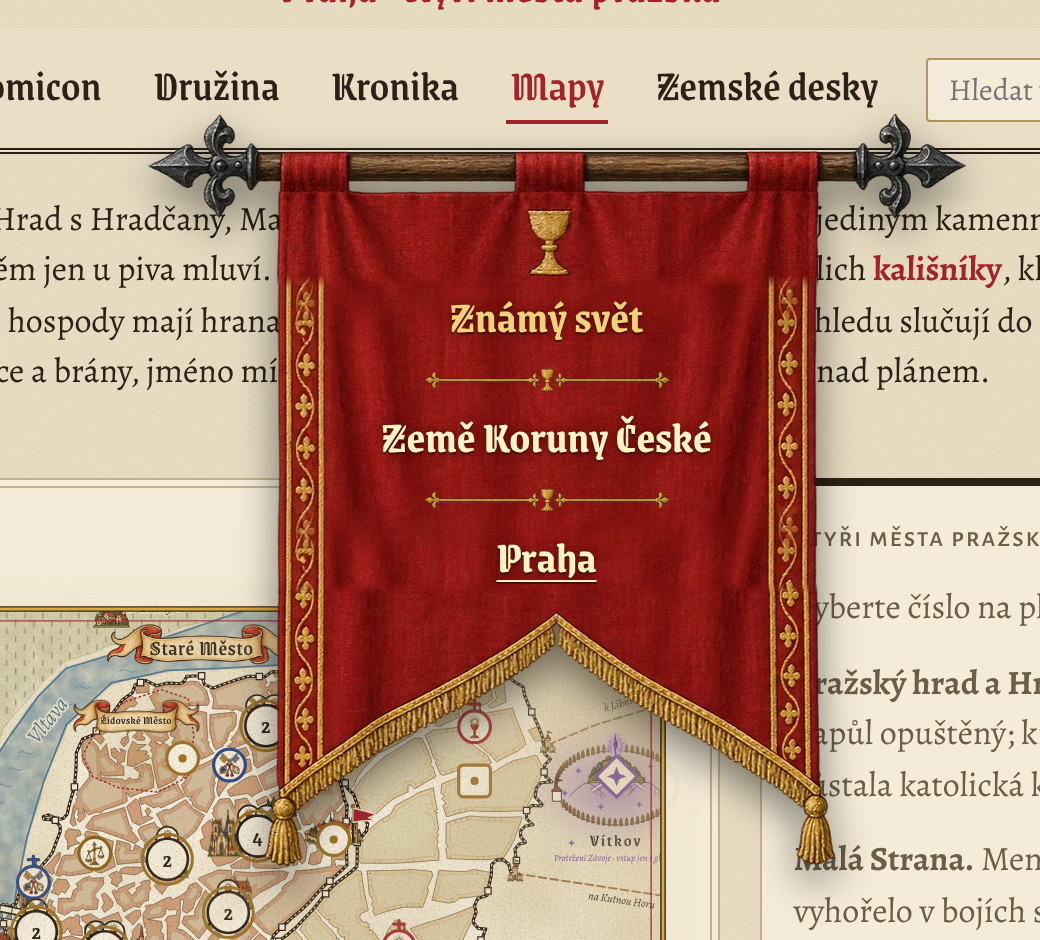
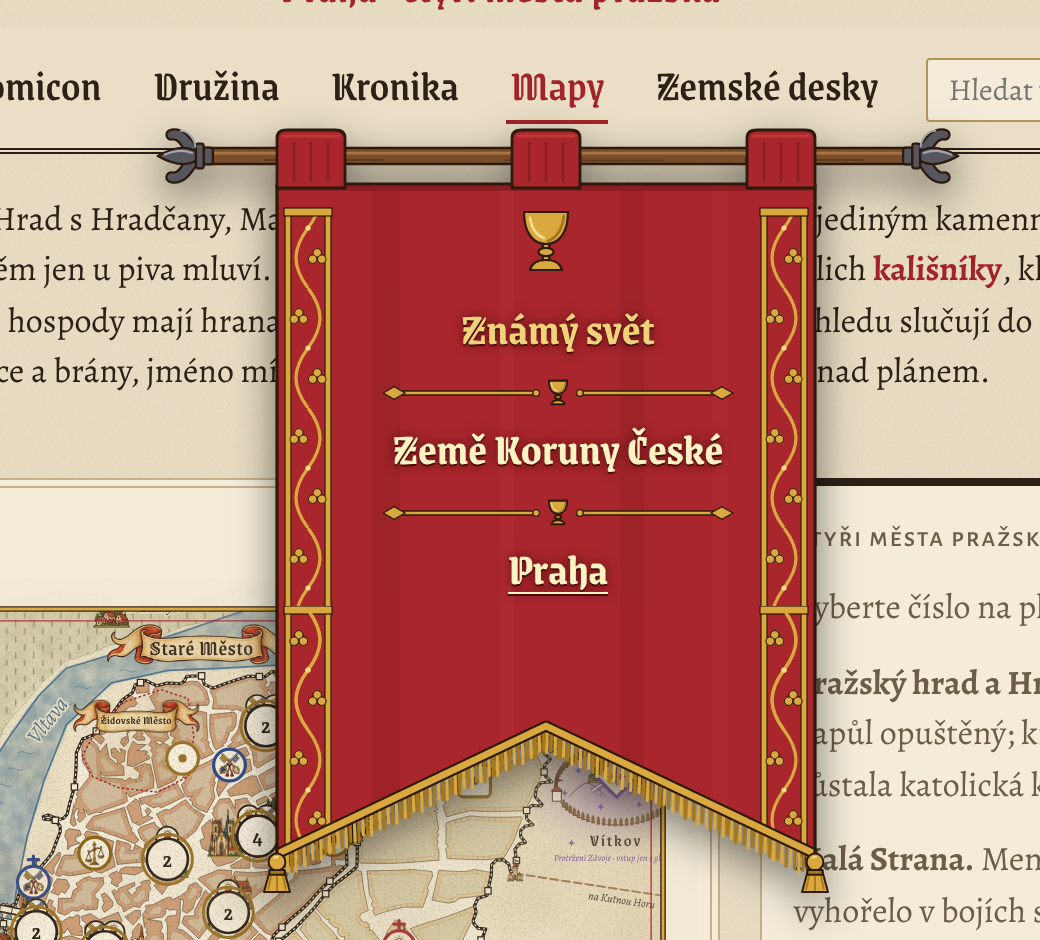
Praporec v menu Mapy nakreslený jako SVG (zdroj/prapor_svg.py) místo rastrové grafiky
Claude-Session: https://claude.ai/code/session_01QrVD7M5N9joRcp4jMHFd5f

diff --git a/zdroj/koruna.html b/zdroj/koruna.html
@@ -265,18 +265,18 @@ header.site{display:flex;flex-direction:column;gap:0;border:0;padding:0}
 .sbico{width:16px;height:16px;vertical-align:-3px;margin-right:4px}.sgico{width:22px;height:22px;vertical-align:-5px;margin-right:6px}
 .gmtoast{position:fixed;left:50%;bottom:18px;transform:translateX(-50%);z-index:90;background:var(--ink);color:var(--paper);font-family:var(--f-label);padding:8px 14px;border-radius:4px;box-shadow:0 4px 12px rgba(0,0,0,.3);opacity:0;pointer-events:none;transition:opacity .2s}.gmtoast.on{opacity:1}
 .navdd{position:relative;display:inline-block}
-/* praporec pod položkou Mapy: ratiště s horní částí, látka se rozvine (max-height) a pak se celý prapor zhoupne na ratišti */
-.navdd .svitek{position:absolute;left:50%;top:100%;margin:-4px 0 0 -206.75px;width:413.5px;z-index:40;pointer-events:none;visibility:hidden;transition:visibility 0s .3s;filter:drop-shadow(0 8px 10px rgba(0,0,0,.5));transform-origin:206.75px 22px}
-.svitek .roll{display:block;height:90px;background:url(art/menu/prapor-horni.webp) center/100% 100% no-repeat;position:relative;z-index:2;opacity:0;transition:opacity .2s;pointer-events:none}
-.svitek .roll:last-child{height:145px;margin-top:-2px;background-image:url(art/menu/prapor-spodni.webp)}
-.svitek .svlist{display:flex;flex-direction:column;align-items:stretch;margin:-8px 0 -6px;max-height:0;overflow:hidden;padding:0 105px 0 94px;position:relative;z-index:1;background:url(art/menu/prapor-stred-zacatek.webp) top center/413.5px 83px no-repeat,url(art/menu/prapor-stred.webp) repeat-y top center/413.5px 83px;transition:max-height .45s cubic-bezier(.3,.7,.3,1),padding .45s cubic-bezier(.3,.7,.3,1)}
-.svitek .svlist a{display:block;white-space:nowrap;text-align:center;font-family:var(--f-disp);font-weight:700;font-size:22px;line-height:1.1;padding:6px 0;color:#f0d27a;border:0;text-shadow:0 1px 0 #4a0c08,0 0 6px rgba(40,5,0,.6);transition:color .15s}
+/* kreslený praporec pod položkou Mapy (SVG v art/menu, vyrábí je zdroj/prapor_svg.py): ratiště s horní částí, látka se rozvine (max-height) a pak se celý prapor zhoupne na ratišti */
+.navdd .svitek{position:absolute;left:50%;top:100%;margin:-4px 0 0 -207px;width:414px;z-index:40;pointer-events:none;visibility:hidden;transition:visibility 0s .3s;filter:drop-shadow(0 8px 10px rgba(0,0,0,.5));transform-origin:207px 24px}
+.svitek .roll{display:block;height:90px;background:url(art/menu/prapor-horni.svg) center/100% 100% no-repeat;position:relative;z-index:2;opacity:0;transition:opacity .2s;pointer-events:none}
+.svitek .roll:last-child{height:130px;background-image:url(art/menu/prapor-spodni.svg)}
+.svitek .svlist{display:flex;flex-direction:column;align-items:stretch;margin:0;max-height:0;overflow:hidden;padding:0 100px;position:relative;z-index:1;background:url(art/menu/prapor-stred.svg) repeat-y top center/414px 60px;transition:max-height .45s cubic-bezier(.3,.7,.3,1),padding .45s cubic-bezier(.3,.7,.3,1)}
+.svitek .svlist a{display:block;white-space:nowrap;text-align:center;font-family:var(--f-disp);font-weight:700;font-size:22px;line-height:1.1;padding:6px 0;color:#f0d27a;border:0;text-shadow:0 1px 0 #4a0c08;transition:color .15s}
 .svitek .svlist a:hover,.svitek .svlist a.on{color:#fff3c4}
 .svitek .svlist a.on{text-decoration:underline;text-decoration-thickness:1px;text-underline-offset:4px}
-.svitek .svlist a+a::before{content:"";display:block;width:85%;height:16px;margin:0 auto 8px;background:url(art/menu/prapor-oddelovac.webp) center/contain no-repeat;pointer-events:none}
+.svitek .svlist a+a::before{content:"";display:block;width:85%;height:16px;margin:0 auto 8px;background:url(art/menu/prapor-oddelovac.svg) center/contain no-repeat;pointer-events:none}
 .navdd:hover .svitek,.navdd:focus-within .svitek,.navdd.open .svitek{pointer-events:auto;visibility:visible;transition:visibility 0s;animation:houpni 1.4s ease-out .35s both}
 .navdd:hover .roll,.navdd:focus-within .roll,.navdd.open .roll{opacity:1}
-.navdd:hover .svlist,.navdd:focus-within .svlist,.navdd.open .svlist{max-height:260px;padding:4px 105px 0 94px}
+.navdd:hover .svlist,.navdd:focus-within .svlist,.navdd.open .svlist{max-height:260px;padding:2px 100px 0}
 @keyframes houpni{0%{transform:rotate(0)}25%{transform:rotate(1.6deg)}50%{transform:rotate(-1deg)}75%{transform:rotate(.4deg)}100%{transform:rotate(0)}}
 @media (prefers-reduced-motion:reduce){.svitek .svlist,.svitek .roll{transition:none}.navdd .svitek{animation:none!important}}
 .sitenav{align-items:baseline}

diff --git a/zdroj/prapor_svg.py b/zdroj/prapor_svg.py
@@ -1,0 +1,130 @@
+# Vyrobí kreslený praporec pro menu Mapy: art/menu/prapor-{horni,stred,spodni,oddelovac}.svg
+# Spuštění: python3 zdroj/prapor_svg.py
+import re,math
+INK="#2e1a0c"; RED="#a8262c"; RED2="#8c1d23"; RED3="#c0363a"; G="#d9a93f"; G2="#a7771c"; G3="#f6dc8a"
+W=414; FL,FR=66.5,347.5-12  # okraje látky
+FR=335.5; CX=201
+BL=(72,92); BR=(2*201-92,2*201-72)   # zlaté linky bordur (vlevo, vpravo)
+P=60  # perioda bordury
+
+def fabric_shading(y0,y1):
+  # ploché svislé záhyby
+  s=""
+  for x,w,c,o in ((114,14,RED2,.35),(178,7,RED3,.25),(238,12,RED2,.3),(284,8,RED3,.2)):
+    s+=f'<rect x="{x}" y="{y0}" width="{w}" height="{y1-y0}" fill="{c}" opacity="{o}"/>'
+  return s
+
+def vine(c,y):
+  return f'<path d="M{c},{y}C{c+8},{y+P*.18} {c+8},{y+P*.32} {c},{y+P*.5}S{c-8},{y+P*.82} {c},{y+P}" fill="none" stroke="{G}" stroke-width="1.6"/>'
+def border_seg(y,band=False):
+  s=""
+  for a,b in (BL,BR):
+    c=(a+b)/2
+    if band: s+=f'<rect x="{a-2}" y="{y-2}" width="{b-a+4}" height="4" fill="{G}" stroke="{INK}" stroke-width=".6"/>'
+    s+=vine(c,y)
+    for yy,dx,rot in ((y+P*.25,-4.6,1),(y+P*.75,4.6,-1)):
+      x=c+dx
+      s+=(f'<g fill="{G}" stroke="{INK}" stroke-width=".5"><circle cx="{x}" cy="{yy-2.6}" r="2.1"/><circle cx="{x-2.3}" cy="{yy+.6}" r="2.1"/><circle cx="{x+2.3}" cy="{yy+.6}" r="2.1"/></g>')
+    s+=f'<circle cx="{c}" cy="{y+P*.5}" r="1.3" fill="{G3}"/>'
+  return s
+
+def border_lines(y0,y1):
+  d="".join(f"M{x},{y0}V{y1}" for x in BL+BR)
+  return f'<path d="{d}" stroke="{INK}" stroke-width="3.6"/><path d="{d}" stroke="{G}" stroke-width="2.4"/>'
+
+def kalich(cx,y,k=1.0):
+  def p(x,yy): return f"{cx+x*k:.1f},{y+yy*k:.1f}"
+  return (f'<g fill="{G}" stroke="{INK}" stroke-width="1.1" stroke-linejoin="round">'
+    f'<path d="M{p(-11,0)}H{cx+11*k:.1f}C{p(11,11)} {p(6,16)} {p(0,16)}C{p(-6,16)} {p(-11,11)} {p(-11,0)}Z"/>'
+    f'<rect x="{cx-1.6*k:.1f}" y="{y+16*k:.1f}" width="{3.2*k:.1f}" height="{8*k:.1f}"/>'
+    f'<ellipse cx="{cx}" cy="{y+20*k:.1f}" rx="{3.8*k:.1f}" ry="{2.1*k:.1f}"/>'
+    f'<path d="M{p(-8,29)}C{p(-7,25)} {p(-3,24)} {p(0,24)}C{p(3,24)} {p(7,25)} {p(8,29)}Z"/></g>'
+    f'<path d="M{p(-8,3)}C{p(-7,9)} {p(-4,12)} {p(-1,13)}" fill="none" stroke="{G3}" stroke-width="{1.4*k:.1f}" stroke-linecap="round"/>'
+    f'<path d="M{p(9,2)}C{p(8,9)} {p(5,13)} {p(1,14.5)}" fill="none" stroke="{G2}" stroke-width="{1.4*k:.1f}" stroke-linecap="round"/>')
+
+def lilie(x,y,smer):
+  # kovaná hlavice ratiště: prstenec, koule a hrot (smer -1 vlevo, +1 vpravo)
+  m=f'matrix({smer} 0 0 1 {x} {y})'
+  return (f'<g transform="{m}" fill="#55565e" stroke="{INK}" stroke-width="1.2" stroke-linejoin="round">'
+    f'<path d="M14,0L19,-5.5L33,0L19,5.5Z"/>'
+    f'<path d="M10,-3.5C12,-6 16,-7 18,-4.5L20,0L18,4.5C16,7 12,6 10,3.5Z"/>'
+    f'<circle cx="8" cy="0" r="4.6"/>'
+    f'<rect x="-1" y="-6" width="5" height="12" rx="1.2"/>'
+    f'<path d="M20,-1.6L29,-.3M5.8,-2.6a3,3 0 0 1 3.2,-1.2M12,-3.4C14,-4.8 16,-4.6 17,-3.2" fill="none" stroke="#a3a5b0" stroke-width="1" stroke-linecap="round"/></g>')
+
+def horni():
+  s=f'<svg xmlns="http://www.w3.org/2000/svg" viewBox="0 0 {W} 90">'
+  # látka (horní okraj mezi poutky)
+  s+=f'<path d="M{FL},38H{FR}V90H{FL}Z" fill="{RED}"/>'+fabric_shading(38,90)
+  s+=f'<path d="M{FL},40H{FR}" stroke="{RED2}" stroke-width="3"/>'
+  # bordura: linky začínají růžicí
+  s+=border_lines(52,90)
+  s+=f'<clipPath id="hc"><rect x="0" y="54" width="{W}" height="40"/></clipPath><g clip-path="url(#hc)">'+border_seg(30)+'</g>'
+  for a,b in (BL,BR):
+    s+=f'<rect x="{a-2}" y="50" width="{b-a+4}" height="4" fill="{G}" stroke="{INK}" stroke-width=".6"/>'
+  s+=f'<path d="M{FL},38V90M{FR},38V90" stroke="{INK}" stroke-width="1.6"/>'
+  s+=f'<path d="M{FL},38H{FR}" stroke="{INK}" stroke-width="1.4"/>'
+  # ratiště
+  s+=f'<rect x="38" y="20" width="{W-76}" height="8" rx="2" fill="#7a4e2a" stroke="{INK}" stroke-width="1.3"/>'
+  s+=f'<path d="M32,22.6H{W-32}" stroke="#a87444" stroke-width="1.4"/><path d="M60,26H120M180,26.2H260M300,26H360" stroke="#5c3a1e" stroke-width=".9"/>'
+  s+=lilie(41,24,-1)+lilie(W-41,24,1)
+  # poutka přes ratiště
+  for x0,x1 in ((FL,FL+34),(CX-17,CX+17),(FR-34,FR)):
+    s+=f'<path d="M{x0},15C{x0},12 {x0+2},11 {x0+5},11H{x1-5}C{x1-2},11 {x1},12 {x1},15V40H{x0}Z" fill="{RED}" stroke="{INK}" stroke-width="1.4" stroke-linejoin="round"/>'
+    s+=f'<path d="M{x0+3},14H{x1-3}" stroke="{RED3}" stroke-width="1.6" stroke-linecap="round"/>'
+    for k in range(1,4):
+      xx=x0+(x1-x0)*k/4;s+=f'<path d="M{xx},17V37" stroke="{RED2}" stroke-width="1.2"/>'
+    s+=f'<path d="M{x0},40H{x1}" stroke="{INK}" stroke-width="1.1"/>'
+  s+=kalich(CX,52,1.0)
+  return s+"</svg>"
+
+def stred():
+  s=f'<svg xmlns="http://www.w3.org/2000/svg" viewBox="0 0 {W} {P}" preserveAspectRatio="none">'
+  s+=f'<rect x="{FL}" y="0" width="{FR-FL}" height="{P}" fill="{RED}"/>'+fabric_shading(0,P)
+  s+=border_lines(0,P)+border_seg(0)
+  s+=f'<path d="M{FL},0V{P}M{FR},0V{P}" stroke="{INK}" stroke-width="1.6"/>'
+  return s+"</svg>"
+
+def spodni():
+  H=130; A=(FL,106); B=(CX,44); C=(FR,106)
+  poly=f"M{FL},0H{FR}V{C[1]}L{CX},{B[1]}L{FL},{A[1]}Z"
+  s=f'<svg xmlns="http://www.w3.org/2000/svg" viewBox="0 0 {W} {H}"><defs><clipPath id="c"><path d="{poly}"/></clipPath></defs>'
+  # třásně pod šikmým okrajem
+  fr=""
+  x=FL+5
+  i=0
+  while x<FR-4:
+    yE=A[1]-(x-FL)*(A[1]-B[1])/(CX-FL) if x<=CX else B[1]+(x-CX)*(C[1]-B[1])/(FR-CX)
+    col=G if i%2==0 else G2
+    fr+=f'<path d="M{x:.1f},{yE+1:.1f}l{0.4 if x<CX else -0.4},{10+ (i%3)}" stroke="{col}" stroke-width="1.5" stroke-linecap="round"/>'
+    x+=2.1;i+=1
+  s+=f'<g>{fr}</g>'
+  s+=f'<path d="{poly}" fill="{RED}"/>'
+  s+=f'<g clip-path="url(#c)">'+fabric_shading(0,H)+border_lines(4,H)+border_seg(2)+border_seg(2+P)+border_seg(2,True)+'</g>'
+  # lemovka
+  s+=f'<path d="M{FL},{A[1]}L{CX},{B[1]}L{FR},{C[1]}" fill="none" stroke="{INK}" stroke-width="5.5" stroke-linejoin="round"/>'
+  s+=f'<path d="M{FL},{A[1]}L{CX},{B[1]}L{FR},{C[1]}" fill="none" stroke="{G}" stroke-width="3.4" stroke-linejoin="round"/>'
+  s+=f'<path d="M{FL},0V{A[1]}M{FR},0V{C[1]}" stroke="{INK}" stroke-width="1.6"/>'
+  # střapce
+  for tx in (FL,FR):
+    y=A[1]
+    s+=(f'<g stroke="{INK}" stroke-width="1" stroke-linejoin="round">'
+        f'<circle cx="{tx}" cy="{y+5}" r="5" fill="{G}"/>'
+        f'<path d="M{tx-4.5},{y+10}H{tx+4.5}L{tx+8},{y+23}H{tx-8}Z" fill="{G}"/>'
+        f'<rect x="{tx-5}" y="{y+9.5}" width="10" height="3" fill="{G2}"/></g>'
+        f'<path d="M{tx-4},{y+13}l-2,9M{tx-1.3},{y+13}l-.6,9.5M{tx+1.3},{y+13}l.6,9.5M{tx+4},{y+13}l2,9" stroke="{G2}" stroke-width=".9"/>'
+        f'<path d="M{tx-2},{y+2.5}a2.4,2.4 0 0 1 2.8,-.7" fill="none" stroke="{G3}" stroke-width="1.1"/>')
+  return s+"</svg>"
+
+def oddelovac():
+  s='<svg xmlns="http://www.w3.org/2000/svg" viewBox="0 0 200 16">'
+  s+=f'<path d="M14,8H86M114,8H186" stroke="{INK}" stroke-width="3"/><path d="M14,8H86M114,8H186" stroke="{G}" stroke-width="1.5"/>'
+  s+=f'<g fill="{G}" stroke="{INK}" stroke-width=".7"><path d="M4,8l6,-3.4l6,3.4l-6,3.4Z"/><path d="M184,8l6,-3.4l6,3.4l-6,3.4Z"/><circle cx="88" cy="8" r="1.8"/><circle cx="112" cy="8" r="1.8"/></g>'
+  s+=kalich(100,1.2,.45)
+  return s+"</svg>"
+
+if __name__=="__main__":
+  import os
+  d=os.path.join(os.path.dirname(os.path.abspath(__file__)),"..","art","menu")
+  for n,f in (("horni",horni),("stred",stred),("spodni",spodni),("oddelovac",oddelovac)):
+    open(os.path.join(d,f"prapor-{n}.svg"),"w").write(f())
